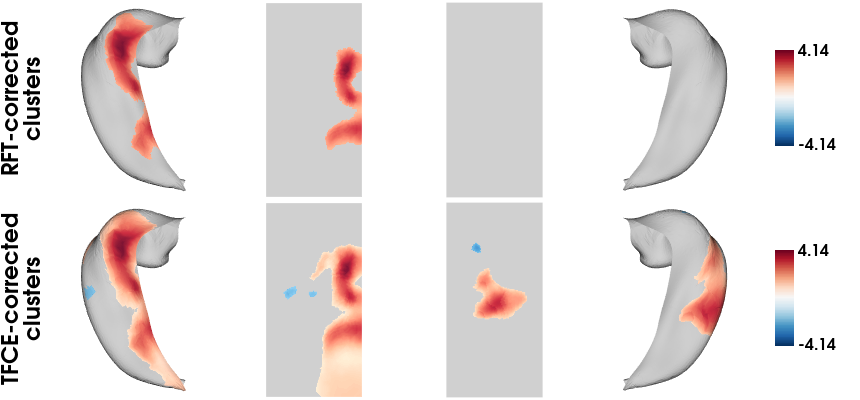
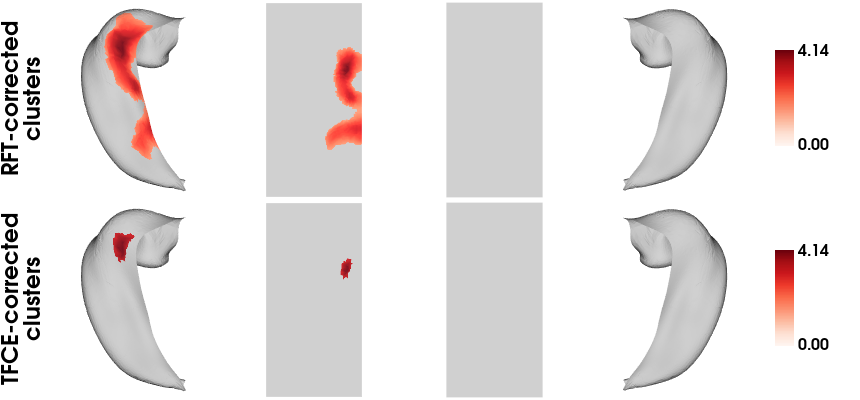
Website update

diff --git a/docs/articles/VertexWiseR_Example_2.html b/docs/articles/VertexWiseR_Example_2.html
@@ -20,7 +20,7 @@
 
     <a class="navbar-brand me-2" href="../index.html">VertexWiseR</a>
 
-    <small class="nav-text text-muted me-auto" data-bs-toggle="tooltip" data-bs-placement="bottom" title="">1.2.1</small>
+    <small class="nav-text text-muted me-auto" data-bs-toggle="tooltip" data-bs-placement="bottom" title="">1.3.0</small>
 
 
     <button class="navbar-toggler" type="button" data-bs-toggle="collapse" data-bs-target="#navbar" aria-controls="navbar" aria-expanded="false" aria-label="Toggle navigation">
@@ -70,7 +70,7 @@
                         <h4 data-toc-skip class="author">Charly Billaud,
 Junhong Yu</h4>
             
-            <h4 data-toc-skip class="date">2024-08-12</h4>
+            <h4 data-toc-skip class="date">2025-03-18</h4>
       
 
       <div class="d-none name"><code>VertexWiseR_Example_2.Rmd</code></div>
@@ -128,7 +128,8 @@ cluster enhancement-based cluster correction, with 1000 permutations,
 testing for the effect of session, group, session * group interaction,
 on hippocampal thickness, with subject ID as a random variable:</p>
 <div class="sourceCode" id="cb8"><pre class="downlit sourceCode r">
-<code class="sourceCode R"><span><span class="va">model2_TFCE</span><span class="op">=</span><span class="fu"><a href="../reference/TFCE_vertex_analysis_mixed.html">TFCE_vertex_analysis_mixed</a></span><span class="op">(</span></span>
+<code class="sourceCode R"><span><span class="fu"><a href="https://rdrr.io/r/base/Random.html" class="external-link">set.seed</a></span><span class="op">(</span><span class="fl">123</span><span class="op">)</span></span>
+<span><span class="va">model2_TFCE</span><span class="op">=</span><span class="fu"><a href="../reference/TFCE_vertex_analysis_mixed.html">TFCE_vertex_analysis_mixed</a></span><span class="op">(</span></span>
 <span>  model <span class="op">=</span> <span class="va">dat_beh_ses13</span><span class="op">[</span>,<span class="fu"><a href="https://rdrr.io/r/base/c.html" class="external-link">c</a></span><span class="op">(</span><span class="st">"session"</span>,<span class="st">"group"</span>,<span class="st">"session_x_group"</span><span class="op">)</span><span class="op">]</span>, </span>
 <span>  contrast <span class="op">=</span> <span class="va">dat_beh_ses13</span><span class="op">[</span>,<span class="st">"session_x_group"</span><span class="op">]</span>, </span>
 <span>  surf_data<span class="op">=</span> <span class="va">FINK_Tv_smoothed_ses13</span>, </span>
@@ -140,15 +141,11 @@ on hippocampal thickness, with subject ID as a random variable:</p>
 <div class="sourceCode" id="cb9"><pre class="downlit sourceCode r">
 <code class="sourceCode R"><span><span class="va">TFCEoutput</span><span class="op">$</span><span class="va">cluster_level_results</span></span></code></pre></div>
 <pre><code><span><span class="co">## $`Positive contrast`</span></span>
-<span><span class="co">##   clusid nverts      P     X    Y   Z tstat      region</span></span>
-<span><span class="co">## 1      1   1949 &lt;0.001 -27.5 27.5 1.3  4.14 L Subiculum</span></span>
-<span><span class="co">## 2      2    972 &lt;0.001  17.0 14.7 3.5  3.50       R CA1</span></span>
+<span><span class="co">##   clusid nverts     P     X    Y   Z tstat      region</span></span>
+<span><span class="co">## 1      1     73 0.033 -27.5 27.5 1.3  4.14 L Subiculum</span></span>
 <span><span class="co">## </span></span>
 <span><span class="co">## $`Negative contrasts`</span></span>
-<span><span class="co">##   clusid nverts     P     X    Y   Z tstat      region</span></span>
-<span><span class="co">## 1      1    115 0.011  13.3 33.1 4.1  2.85 R Subiculum</span></span>
-<span><span class="co">## 2      2     54 0.036 -16.7 16.7 6.9  2.31       L CA1</span></span>
-<span><span class="co">## 3      3     31 0.045 -18.5 18.5 3.8  2.17       L CA1</span></span></code></pre>
+<span><span class="co">## [1] "No significant clusters"</span></span></code></pre>
 <p>To plot the significant clusters from both models on the CITI168
 hippocampal template surface:</p>
 <div class="sourceCode" id="cb11"><pre class="downlit sourceCode r">
@@ -156,9 +153,9 @@ hippocampal template surface:</p>
 <span><span class="fu"><a href="../reference/plot_surf.html">plot_surf</a></span><span class="op">(</span>surf_data <span class="op">=</span> <span class="va">tmaps</span>, </span>
 <span>          filename <span class="op">=</span> <span class="st">'FINK_tstatmaps.png'</span>, </span>
 <span>          title<span class="op">=</span><span class="fu"><a href="https://rdrr.io/r/base/c.html" class="external-link">c</a></span><span class="op">(</span><span class="st">'RFT-corrected\nclusters'</span>,<span class="st">'TFCE-corrected\nclusters'</span><span class="op">)</span>, </span>
-<span>          cmap<span class="op">=</span><span class="st">'RdBu_r'</span>,</span>
+<span>          cmap<span class="op">=</span><span class="st">'Reds'</span>,</span>
 <span>          show.plot.window<span class="op">=</span><span class="cn">FALSE</span><span class="op">)</span></span></code></pre></div>
-<p><img src="FINK_tstatmaps.png" width="100%" style="display: block; margin: auto;"></p>
+<p><img src="FINK_tstatmaps.png" alt="Significant hippocampal clusters, RFT corrected and TFCE corrected" width="100%" style="display: block; margin: auto;"></p>
 </div>
 <div class="section level2">
 <h2 id="example-2-follow-up-plotting-and-post-hoc-analyses-of-hippocampal-clusters-across-regression-models">Example 2 follow-up: plotting and post-hoc analyses of hippocampal
@@ -167,15 +164,13 @@ clusters across regression models<a class="anchor" aria-label="anchor" href="#ex
 <p>The code below was used in R (v.4.3.3) to plot the cluster-wise
 values from the RFT and TFCE corrected analyses and validate them with
 additional mixed linear models.</p>
-<p>We produce a figure displaying the thickness of the positive and
-negative hippocampal clusters in relation to the group and session
-variables, in RFT and TFCE models, demonstrating a steeper curve toward
-group 2:</p>
+<p>We produce a figure displaying the thickness of the hippocampal
+clusters in relation to the group and session variables, in RFT and TFCE
+models, demonstrating a steeper curve toward group 2:</p>
 <div class="sourceCode" id="cb12"><pre class="downlit sourceCode r">
 <code class="sourceCode R"><span><span class="co">#We divide the cluster values by their sum to get the average thickness per vertex</span></span>
 <span><span class="va">dat_beh_ses13</span><span class="op">$</span><span class="va">clustCTTFCE</span><span class="op">=</span><span class="op">(</span><span class="va">FINK_Tv_smoothed_ses13</span> <span class="op"><a href="https://rdrr.io/r/base/matmult.html" class="external-link">%*%</a></span> <span class="va">TFCEoutput</span><span class="op">$</span><span class="va">pos_mask</span><span class="op">)</span><span class="op">/</span><span class="fu"><a href="https://rdrr.io/r/base/sum.html" class="external-link">sum</a></span><span class="op">(</span><span class="va">TFCEoutput</span><span class="op">$</span><span class="va">pos_mask</span><span class="op">&gt;</span><span class="fl">0</span><span class="op">)</span></span>
 <span><span class="va">dat_beh_ses13</span><span class="op">$</span><span class="va">clustRFT</span><span class="op">=</span><span class="op">(</span><span class="va">FINK_Tv_smoothed_ses13</span> <span class="op"><a href="https://rdrr.io/r/base/matmult.html" class="external-link">%*%</a></span> <span class="va">model2_RFT</span><span class="op">$</span><span class="va">pos_mask</span><span class="op">)</span><span class="op">/</span><span class="fu"><a href="https://rdrr.io/r/base/sum.html" class="external-link">sum</a></span><span class="op">(</span><span class="va">model2_RFT</span><span class="op">$</span><span class="va">pos_mask</span><span class="op">&gt;</span><span class="fl">0</span><span class="op">)</span></span>
-<span><span class="va">dat_beh_ses13</span><span class="op">$</span><span class="va">neg.clustCTTFCE</span><span class="op">=</span><span class="op">(</span><span class="va">FINK_Tv_smoothed_ses13</span> <span class="op"><a href="https://rdrr.io/r/base/matmult.html" class="external-link">%*%</a></span> <span class="va">TFCEoutput</span><span class="op">$</span><span class="va">neg_mask</span><span class="op">)</span><span class="op">/</span><span class="fu"><a href="https://rdrr.io/r/base/sum.html" class="external-link">sum</a></span><span class="op">(</span><span class="va">TFCEoutput</span><span class="op">$</span><span class="va">neg_mask</span><span class="op">&gt;</span><span class="fl">0</span><span class="op">)</span></span>
 <span></span>
 <span><span class="kw"><a href="https://rdrr.io/r/base/library.html" class="external-link">library</a></span><span class="op">(</span><span class="va"><a href="https://ggplot2.tidyverse.org" class="external-link">ggplot2</a></span><span class="op">)</span></span>
 <span><span class="kw"><a href="https://rdrr.io/r/base/library.html" class="external-link">library</a></span><span class="op">(</span><span class="va"><a href="https://github.com/eclarke/ggbeeswarm" class="external-link">ggbeeswarm</a></span><span class="op">)</span></span>
@@ -195,24 +190,15 @@ group 2:</p>
 <span>  <span class="fu"><a href="https://ggplot2.tidyverse.org/reference/geom_path.html" class="external-link">geom_line</a></span><span class="op">(</span><span class="fu"><a href="https://ggplot2.tidyverse.org/reference/aes.html" class="external-link">aes</a></span><span class="op">(</span>group<span class="op">=</span><span class="va">participant_id</span><span class="op">)</span>, alpha<span class="op">=</span><span class="fl">0.2</span><span class="op">)</span><span class="op">+</span></span>
 <span>  <span class="fu"><a href="https://ggplot2.tidyverse.org/reference/geom_smooth.html" class="external-link">geom_smooth</a></span><span class="op">(</span><span class="fu"><a href="https://ggplot2.tidyverse.org/reference/aes.html" class="external-link">aes</a></span><span class="op">(</span>group<span class="op">=</span><span class="va">group</span><span class="op">)</span>, method<span class="op">=</span><span class="st">"lm"</span><span class="op">)</span><span class="op">+</span></span>
 <span>  <span class="fu"><a href="https://ggplot2.tidyverse.org/reference/labs.html" class="external-link">labs</a></span><span class="op">(</span>y<span class="op">=</span><span class="st">"Mean thickness (mm)"</span>, x<span class="op">=</span><span class="st">"session"</span>, color<span class="op">=</span><span class="st">"group"</span><span class="op">)</span><span class="op">+</span></span>
-<span>  <span class="fu"><a href="https://ggplot2.tidyverse.org/reference/guides.html" class="external-link">guides</a></span><span class="op">(</span>colour <span class="op">=</span> <span class="st">"none"</span><span class="op">)</span><span class="op">+</span></span>
 <span>  <span class="fu"><a href="https://ggplot2.tidyverse.org/reference/labs.html" class="external-link">ggtitle</a></span><span class="op">(</span><span class="st">"Positive cluster\n(RFT-corrected)"</span><span class="op">)</span><span class="op">+</span> </span>
-<span>  <span class="fu"><a href="https://ggplot2.tidyverse.org/reference/lims.html" class="external-link">ylim</a></span><span class="op">(</span><span class="fl">1.1</span>, <span class="fl">1.55</span><span class="op">)</span></span>
-<span></span>
-<span><span class="va">c</span><span class="op">=</span><span class="fu"><a href="https://ggplot2.tidyverse.org/reference/ggplot.html" class="external-link">ggplot</a></span><span class="op">(</span>data<span class="op">=</span><span class="va">dat_beh_ses13</span>,<span class="fu"><a href="https://ggplot2.tidyverse.org/reference/aes.html" class="external-link">aes</a></span><span class="op">(</span>y<span class="op">=</span><span class="va">neg.clustCTTFCE</span>,x<span class="op">=</span><span class="fu"><a href="https://rdrr.io/r/base/factor.html" class="external-link">as.factor</a></span><span class="op">(</span><span class="va">session</span><span class="op">)</span>, color<span class="op">=</span><span class="fu"><a href="https://rdrr.io/r/base/factor.html" class="external-link">as.factor</a></span><span class="op">(</span><span class="va">group</span><span class="op">)</span><span class="op">)</span><span class="op">)</span><span class="op">+</span></span>
-<span>  <span class="fu"><a href="https://rdrr.io/pkg/ggbeeswarm/man/geom_quasirandom.html" class="external-link">geom_quasirandom</a></span><span class="op">(</span>dodge.width<span class="op">=</span><span class="fl">0.5</span><span class="op">)</span><span class="op">+</span></span>
-<span>  <span class="fu"><a href="https://ggplot2.tidyverse.org/reference/geom_path.html" class="external-link">geom_line</a></span><span class="op">(</span><span class="fu"><a href="https://ggplot2.tidyverse.org/reference/aes.html" class="external-link">aes</a></span><span class="op">(</span>group<span class="op">=</span><span class="va">participant_id</span><span class="op">)</span>, alpha<span class="op">=</span><span class="fl">0.2</span><span class="op">)</span><span class="op">+</span></span>
-<span>  <span class="fu"><a href="https://ggplot2.tidyverse.org/reference/geom_smooth.html" class="external-link">geom_smooth</a></span><span class="op">(</span><span class="fu"><a href="https://ggplot2.tidyverse.org/reference/aes.html" class="external-link">aes</a></span><span class="op">(</span>group<span class="op">=</span><span class="va">group</span><span class="op">)</span>, method<span class="op">=</span><span class="st">"lm"</span><span class="op">)</span><span class="op">+</span></span>
-<span>  <span class="fu"><a href="https://ggplot2.tidyverse.org/reference/labs.html" class="external-link">labs</a></span><span class="op">(</span>y<span class="op">=</span><span class="st">"Mean thickness (mm)"</span>, x<span class="op">=</span><span class="st">"session"</span>, color<span class="op">=</span><span class="st">"group"</span><span class="op">)</span><span class="op">+</span></span>
-<span>  <span class="fu"><a href="https://ggplot2.tidyverse.org/reference/labs.html" class="external-link">ggtitle</a></span><span class="op">(</span><span class="st">"Negative cluster\n(TFCE-corrected)"</span><span class="op">)</span><span class="op">+</span></span>
 <span>  <span class="fu"><a href="https://ggplot2.tidyverse.org/reference/scale_colour_discrete.html" class="external-link">scale_color_discrete</a></span><span class="op">(</span>name<span class="op">=</span><span class="st">"Group"</span>,labels<span class="op">=</span><span class="fu"><a href="https://rdrr.io/r/base/c.html" class="external-link">c</a></span><span class="op">(</span><span class="st">"group 1"</span>, <span class="st">"group 2"</span><span class="op">)</span><span class="op">)</span><span class="op">+</span></span>
 <span>  <span class="fu"><a href="https://ggplot2.tidyverse.org/reference/lims.html" class="external-link">ylim</a></span><span class="op">(</span><span class="fl">1.1</span>, <span class="fl">1.55</span><span class="op">)</span></span>
 <span></span>
 <span><span class="fu"><a href="https://rdrr.io/r/grDevices/png.html" class="external-link">png</a></span><span class="op">(</span>filename<span class="op">=</span><span class="st">"traj.png"</span>, res<span class="op">=</span><span class="fl">300</span>, width<span class="op">=</span><span class="fl">2500</span>,height<span class="op">=</span><span class="fl">1080</span><span class="op">)</span></span>
-<span><span class="va">plots</span><span class="op">=</span><span class="fu"><a href="https://wilkelab.org/cowplot/reference/plot_grid.html" class="external-link">plot_grid</a></span><span class="op">(</span><span class="va">a</span>,<span class="va">b</span>,<span class="va">c</span>, nrow<span class="op">=</span><span class="fl">1</span>,rel_widths<span class="op">=</span><span class="fu"><a href="https://rdrr.io/r/base/c.html" class="external-link">c</a></span><span class="op">(</span><span class="fl">0.3</span>,<span class="fl">0.3</span>,<span class="fl">0.43</span><span class="op">)</span><span class="op">)</span></span>
+<span><span class="va">plots</span><span class="op">=</span><span class="fu"><a href="https://wilkelab.org/cowplot/reference/plot_grid.html" class="external-link">plot_grid</a></span><span class="op">(</span><span class="va">a</span>,<span class="va">b</span>, nrow<span class="op">=</span><span class="fl">1</span>,rel_widths<span class="op">=</span><span class="fu"><a href="https://rdrr.io/r/base/c.html" class="external-link">c</a></span><span class="op">(</span><span class="fl">0.3</span>,<span class="fl">0.40</span><span class="op">)</span><span class="op">)</span></span>
 <span><span class="fu"><a href="https://rdrr.io/r/base/print.html" class="external-link">print</a></span><span class="op">(</span><span class="va">plots</span><span class="op">)</span></span>
 <span><span class="fu"><a href="https://rdrr.io/r/grDevices/dev.html" class="external-link">dev.off</a></span><span class="op">(</span><span class="op">)</span></span></code></pre></div>
-<p><img src="traj.png" width="100%" style="display: block; margin: auto;"></p>
+<p><img src="traj.png" alt="Graph showing average cluster thickness per group and correction method for each cluster" width="100%" style="display: block; margin: auto;"></p>
 <p>As an additional validation of these results, these significant
 clusters were extracted as regions-of-interests and fitted in a linear
 mixed effects model using another R package— lmerTest <span class="citation">(Kuznetsova, Brockhoff, and Christensen
@@ -267,70 +253,32 @@ value</p>
 <span><span class="co">## Formula: clustCTTFCE ~ session + group + session * group + (1 | participant_id)</span></span>
 <span><span class="co">##    Data: dat_beh_ses13</span></span>
 <span><span class="co">## </span></span>
-<span><span class="co">## REML criterion at convergence: -361.7</span></span>
+<span><span class="co">## REML criterion at convergence: -272.9</span></span>
 <span><span class="co">## </span></span>
 <span><span class="co">## Scaled residuals: </span></span>
 <span><span class="co">##      Min       1Q   Median       3Q      Max </span></span>
-<span><span class="co">## -2.79209 -0.33964  0.04546  0.39149  2.56583 </span></span>
+<span><span class="co">## -1.50112 -0.45415 -0.05631  0.49916  1.71410 </span></span>
 <span><span class="co">## </span></span>
 <span><span class="co">## Random effects:</span></span>
-<span><span class="co">##  Groups         Name        Variance Std.Dev.</span></span>
-<span><span class="co">##  participant_id (Intercept) 0.003514 0.05928 </span></span>
-<span><span class="co">##  Residual                   0.000124 0.01113 </span></span>
+<span><span class="co">##  Groups         Name        Variance  Std.Dev.</span></span>
+<span><span class="co">##  participant_id (Intercept) 0.0048047 0.06932 </span></span>
+<span><span class="co">##  Residual                   0.0005989 0.02447 </span></span>
 <span><span class="co">## Number of obs: 96, groups:  participant_id, 48</span></span>
 <span><span class="co">## </span></span>
 <span><span class="co">## Fixed effects:</span></span>
 <span><span class="co">##                Estimate Std. Error        df t value Pr(&gt;|t|)    </span></span>
-<span><span class="co">## (Intercept)    1.316823   0.008996 52.349267 146.380  &lt; 2e-16 ***</span></span>
-<span><span class="co">## session       -0.001803   0.001145 46.000000  -1.574    0.122    </span></span>
-<span><span class="co">## group         -0.006405   0.008996 52.349267  -0.712    0.480    </span></span>
-<span><span class="co">## session:group  0.005752   0.001145 46.000000   5.022 8.17e-06 ***</span></span>
+<span><span class="co">## (Intercept)    1.134943   0.011549 66.462361  98.275  &lt; 2e-16 ***</span></span>
+<span><span class="co">## session       -0.003589   0.002517 46.000000  -1.426 0.160692    </span></span>
+<span><span class="co">## group         -0.009920   0.011549 66.462361  -0.859 0.393452    </span></span>
+<span><span class="co">## session:group  0.010234   0.002517 46.000000   4.065 0.000186 ***</span></span>
 <span><span class="co">## ---</span></span>
 <span><span class="co">## Signif. codes:  0 '***' 0.001 '**' 0.01 '*' 0.05 '.' 0.1 ' ' 1</span></span>
 <span><span class="co">## </span></span>
 <span><span class="co">## Correlation of Fixed Effects:</span></span>
 <span><span class="co">##             (Intr) sessin group </span></span>
-<span><span class="co">## session     -0.255              </span></span>
-<span><span class="co">## group       -0.125  0.032       </span></span>
-<span><span class="co">## session:grp  0.032 -0.125 -0.255</span></span></code></pre>
-<p>Linear mixed effect testing the effect of session, group, and session
-* group interaction on the negative TFCE clusters’ average thickness
-value</p>
-<div class="sourceCode" id="cb18"><pre class="downlit sourceCode r">
-<code class="sourceCode R"><span><span class="va">lme.negTFCE</span><span class="op">=</span><span class="fu"><a href="https://rdrr.io/pkg/lmerTest/man/lmer.html" class="external-link">lmer</a></span><span class="op">(</span><span class="va">neg.clustCTTFCE</span><span class="op">~</span><span class="va">session</span><span class="op">+</span><span class="va">group</span><span class="op">+</span><span class="va">session</span><span class="op">*</span><span class="va">group</span><span class="op">+</span><span class="op">(</span><span class="fl">1</span><span class="op">|</span><span class="va">participant_id</span><span class="op">)</span>,data <span class="op">=</span><span class="va">dat_beh_ses13</span> <span class="op">)</span></span>
-<span><span class="fu"><a href="https://rdrr.io/r/base/summary.html" class="external-link">summary</a></span><span class="op">(</span><span class="va">lme.negTFCE</span><span class="op">)</span></span></code></pre></div>
-<pre><code><span><span class="co">## Linear mixed model fit by REML. t-tests use Satterthwaite's method [</span></span>
-<span><span class="co">## lmerModLmerTest]</span></span>
-<span><span class="co">## Formula: </span></span>
-<span><span class="co">## neg.clustCTTFCE ~ session + group + session * group + (1 | participant_id)</span></span>
-<span><span class="co">##    Data: dat_beh_ses13</span></span>
-<span><span class="co">## </span></span>
-<span><span class="co">## REML criterion at convergence: -290.8</span></span>
-<span><span class="co">## </span></span>
-<span><span class="co">## Scaled residuals: </span></span>
-<span><span class="co">##      Min       1Q   Median       3Q      Max </span></span>
-<span><span class="co">## -1.92573 -0.42877 -0.09892  0.46118  2.38291 </span></span>
-<span><span class="co">## </span></span>
-<span><span class="co">## Random effects:</span></span>
-<span><span class="co">##  Groups         Name        Variance  Std.Dev.</span></span>
-<span><span class="co">##  participant_id (Intercept) 0.0044953 0.06705 </span></span>
-<span><span class="co">##  Residual                   0.0004398 0.02097 </span></span>
-<span><span class="co">## Number of obs: 96, groups:  participant_id, 48</span></span>
-<span><span class="co">## </span></span>
-<span><span class="co">## Fixed effects:</span></span>
-<span><span class="co">##                 Estimate Std. Error         df t value Pr(&gt;|t|)    </span></span>
-<span><span class="co">## (Intercept)    1.258e+00  1.088e-02  6.259e+01 115.583  &lt; 2e-16 ***</span></span>
-<span><span class="co">## session       -9.428e-05  2.157e-03  4.600e+01  -0.044  0.96533    </span></span>
-<span><span class="co">## group          1.744e-02  1.088e-02  6.259e+01   1.602  0.11411    </span></span>
-<span><span class="co">## session:group -7.504e-03  2.157e-03  4.600e+01  -3.478  0.00111 ** </span></span>
-<span><span class="co">## ---</span></span>
-<span><span class="co">## Signif. codes:  0 '***' 0.001 '**' 0.01 '*' 0.05 '.' 0.1 ' ' 1</span></span>
-<span><span class="co">## </span></span>
-<span><span class="co">## Correlation of Fixed Effects:</span></span>
-<span><span class="co">##             (Intr) sessin group </span></span>
-<span><span class="co">## session     -0.397              </span></span>
-<span><span class="co">## group       -0.125  0.050       </span></span>
-<span><span class="co">## session:grp  0.050 -0.125 -0.397</span></span></code></pre>
+<span><span class="co">## session     -0.436              </span></span>
+<span><span class="co">## group       -0.125  0.054       </span></span>
+<span><span class="co">## session:grp  0.054 -0.125 -0.436</span></span></code></pre>
 </div>
 <div class="section level2 unnumbered">
 <h2 class="unnumbered" id="references">References:<a class="anchor" aria-label="anchor" href="#references"></a>

diff --git a/docs/news/index.html b/docs/news/index.html
@@ -7,7 +7,7 @@
 
     <a class="navbar-brand me-2" href="../index.html">VertexWiseR</a>
 
-    <small class="nav-text text-muted me-auto" data-bs-toggle="tooltip" data-bs-placement="bottom" title="">1.2.1</small>
+    <small class="nav-text text-muted me-auto" data-bs-toggle="tooltip" data-bs-placement="bottom" title="">1.3.0</small>
 
 
     <button class="navbar-toggler" type="button" data-bs-toggle="collapse" data-bs-target="#navbar" aria-controls="navbar" aria-expanded="false" aria-label="Toggle navigation">
@@ -44,6 +44,17 @@
 
     </div>
 
+    <div class="section level2">
+<h2 class="pkg-version" data-toc-text="1.3.0" id="vertexwiser-v130">VertexWiseR v1.3.0<a class="anchor" aria-label="anchor" href="#vertexwiser-v130"></a></h2>
+<div class="section level3">
+<h3 id="new-features-1-3-0">NEW FEATURES<a class="anchor" aria-label="anchor" href="#new-features-1-3-0"></a></h3>
+<ul><li>TFCE computation is now optimized for speed: previously, the parallel steps in the permutation loop were building the linear model again every time; now the model will be saved as a file in a temporary directory (tempdir(), which will automatically be cleaned up), and loaded within the loops instead of rebuilt.</li>
+</ul></div>
+<div class="section level3">
+<h3 id="fixes-1-3-0">FIXES<a class="anchor" aria-label="anchor" href="#fixes-1-3-0"></a></h3>
+<ul><li>TFCE_vertex_analysis_mixed(): The random variable was not being processed identically in BrainStat across the permuted and unpermuted models, because of a setting factorizing the variable in only one case. Now random variables are factorized in both. This error affected the coefficients and t-stat estimations, and by extension the results of Example 2, which no longer shows negative clusters. This makes the outcome more consistent with the RFT results (TFCE being more conservative). We apologise for overlooking this inconsistency in the code. Please refer to Example 2 as presented in its vignette/website page dated 2025-03-18 for the accurate results.</li>
+</ul></div>
+</div>
     <div class="section level2">
 <h2 class="pkg-version" data-toc-text="1.2.1" id="vertexwiser-v121">VertexWiseR v1.2.1<a class="anchor" aria-label="anchor" href="#vertexwiser-v121"></a></h2><p class="text-muted">CRAN release: 2025-03-10</p>
 <div class="section level3">

diff --git a/docs/404.html b/docs/404.html
@@ -20,7 +20,7 @@
 
     <a class="navbar-brand me-2" href="https://cogbrainhealthlab.github.io/VertexWiseR/index.html">VertexWiseR</a>
 
-    <small class="nav-text text-muted me-auto" data-bs-toggle="tooltip" data-bs-placement="bottom" title="">1.2.1</small>
+    <small class="nav-text text-muted me-auto" data-bs-toggle="tooltip" data-bs-placement="bottom" title="">1.3.0</small>
 
 
     <button class="navbar-toggler" type="button" data-bs-toggle="collapse" data-bs-target="#navbar" aria-controls="navbar" aria-expanded="false" aria-label="Toggle navigation">

diff --git a/docs/articles/Python_troubleshooting.html b/docs/articles/Python_troubleshooting.html
@@ -20,7 +20,7 @@
 
     <a class="navbar-brand me-2" href="../index.html">VertexWiseR</a>
 
-    <small class="nav-text text-muted me-auto" data-bs-toggle="tooltip" data-bs-placement="bottom" title="">1.2.1</small>
+    <small class="nav-text text-muted me-auto" data-bs-toggle="tooltip" data-bs-placement="bottom" title="">1.3.0</small>
 
 
     <button class="navbar-toggler" type="button" data-bs-toggle="collapse" data-bs-target="#navbar" aria-controls="navbar" aria-expanded="false" aria-label="Toggle navigation">

diff --git a/docs/articles/VertexWiseR_Example_1.html b/docs/articles/VertexWiseR_Example_1.html
@@ -20,7 +20,7 @@
 
     <a class="navbar-brand me-2" href="../index.html">VertexWiseR</a>
 
-    <small class="nav-text text-muted me-auto" data-bs-toggle="tooltip" data-bs-placement="bottom" title="">1.2.1</small>
+    <small class="nav-text text-muted me-auto" data-bs-toggle="tooltip" data-bs-placement="bottom" title="">1.3.0</small>
 
 
     <button class="navbar-toggler" type="button" data-bs-toggle="collapse" data-bs-target="#navbar" aria-controls="navbar" aria-expanded="false" aria-label="Toggle navigation">

diff --git a/docs/articles/VertexWiseR_surface_extraction.html b/docs/articles/VertexWiseR_surface_extraction.html
@@ -20,7 +20,7 @@
 
     <a class="navbar-brand me-2" href="../index.html">VertexWiseR</a>
 
-    <small class="nav-text text-muted me-auto" data-bs-toggle="tooltip" data-bs-placement="bottom" title="">1.2.1</small>
+    <small class="nav-text text-muted me-auto" data-bs-toggle="tooltip" data-bs-placement="bottom" title="">1.3.0</small>
 
 
     <button class="navbar-toggler" type="button" data-bs-toggle="collapse" data-bs-target="#navbar" aria-controls="navbar" aria-expanded="false" aria-label="Toggle navigation">

diff --git a/docs/articles/index.html b/docs/articles/index.html
@@ -7,7 +7,7 @@
 
     <a class="navbar-brand me-2" href="../index.html">VertexWiseR</a>
 
-    <small class="nav-text text-muted me-auto" data-bs-toggle="tooltip" data-bs-placement="bottom" title="">1.2.1</small>
+    <small class="nav-text text-muted me-auto" data-bs-toggle="tooltip" data-bs-placement="bottom" title="">1.3.0</small>
 
 
     <button class="navbar-toggler" type="button" data-bs-toggle="collapse" data-bs-target="#navbar" aria-controls="navbar" aria-expanded="false" aria-label="Toggle navigation">

diff --git a/docs/reference/CAT12vextract.html b/docs/reference/CAT12vextract.html
@@ -7,7 +7,7 @@
 
     <a class="navbar-brand me-2" href="../index.html">VertexWiseR</a>
 
-    <small class="nav-text text-muted me-auto" data-bs-toggle="tooltip" data-bs-placement="bottom" title="">1.2.1</small>
+    <small class="nav-text text-muted me-auto" data-bs-toggle="tooltip" data-bs-placement="bottom" title="">1.3.0</small>
 
 
     <button class="navbar-toggler" type="button" data-bs-toggle="collapse" data-bs-target="#navbar" aria-controls="navbar" aria-expanded="false" aria-label="Toggle navigation">

diff --git a/docs/reference/FSLRvextract.html b/docs/reference/FSLRvextract.html
@@ -7,7 +7,7 @@
 
     <a class="navbar-brand me-2" href="../index.html">VertexWiseR</a>
 
-    <small class="nav-text text-muted me-auto" data-bs-toggle="tooltip" data-bs-placement="bottom" title="">1.2.1</small>
+    <small class="nav-text text-muted me-auto" data-bs-toggle="tooltip" data-bs-placement="bottom" title="">1.3.0</small>
 
 
     <button class="navbar-toggler" type="button" data-bs-toggle="collapse" data-bs-target="#navbar" aria-controls="navbar" aria-expanded="false" aria-label="Toggle navigation">

diff --git a/docs/reference/HIPvextract.html b/docs/reference/HIPvextract.html
@@ -7,7 +7,7 @@
 
     <a class="navbar-brand me-2" href="../index.html">VertexWiseR</a>
 
-    <small class="nav-text text-muted me-auto" data-bs-toggle="tooltip" data-bs-placement="bottom" title="">1.2.1</small>
+    <small class="nav-text text-muted me-auto" data-bs-toggle="tooltip" data-bs-placement="bottom" title="">1.3.0</small>
 
 
     <button class="navbar-toggler" type="button" data-bs-toggle="collapse" data-bs-target="#navbar" aria-controls="navbar" aria-expanded="false" aria-label="Toggle navigation">

diff --git a/docs/reference/MNImap_hip.html b/docs/reference/MNImap_hip.html
@@ -7,7 +7,7 @@
 
     <a class="navbar-brand me-2" href="../index.html">VertexWiseR</a>
 
-    <small class="nav-text text-muted me-auto" data-bs-toggle="tooltip" data-bs-placement="bottom" title="">1.2.1</small>
+    <small class="nav-text text-muted me-auto" data-bs-toggle="tooltip" data-bs-placement="bottom" title="">1.3.0</small>
 
 
     <button class="navbar-toggler" type="button" data-bs-toggle="collapse" data-bs-target="#navbar" aria-controls="navbar" aria-expanded="false" aria-label="Toggle navigation">

diff --git a/docs/reference/MNIsurface-class.html b/docs/reference/MNIsurface-class.html
@@ -7,7 +7,7 @@
 
     <a class="navbar-brand me-2" href="../index.html">VertexWiseR</a>
 
-    <small class="nav-text text-muted me-auto" data-bs-toggle="tooltip" data-bs-placement="bottom" title="">1.2.1</small>
+    <small class="nav-text text-muted me-auto" data-bs-toggle="tooltip" data-bs-placement="bottom" title="">1.3.0</small>
 
 
     <button class="navbar-toggler" type="button" data-bs-toggle="collapse" data-bs-target="#navbar" aria-controls="navbar" aria-expanded="false" aria-label="Toggle navigation">
